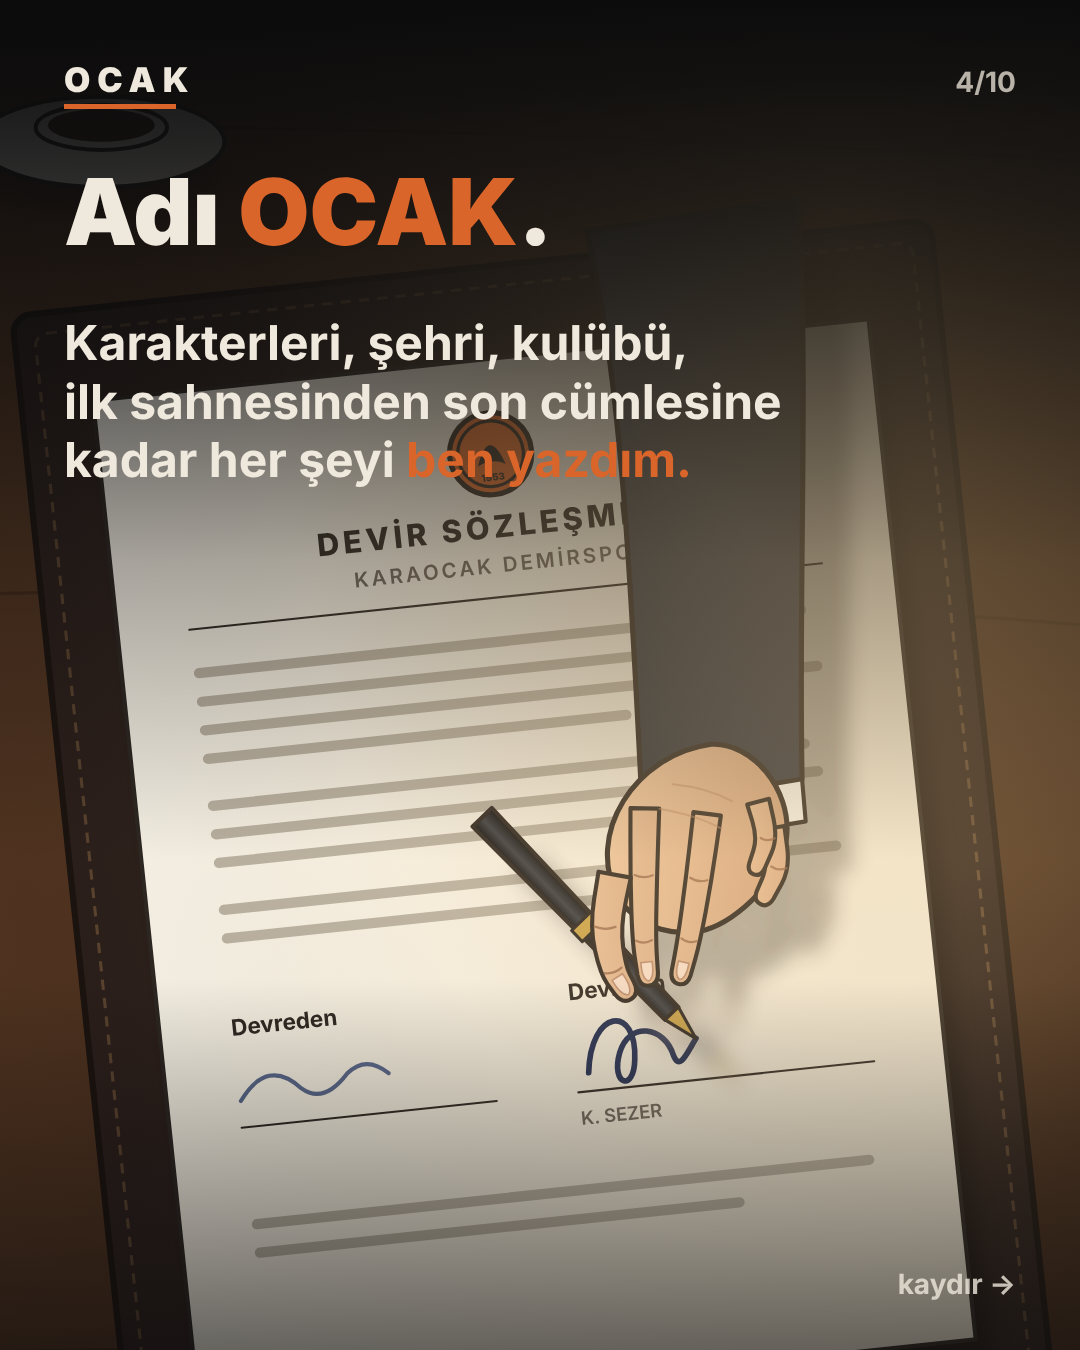
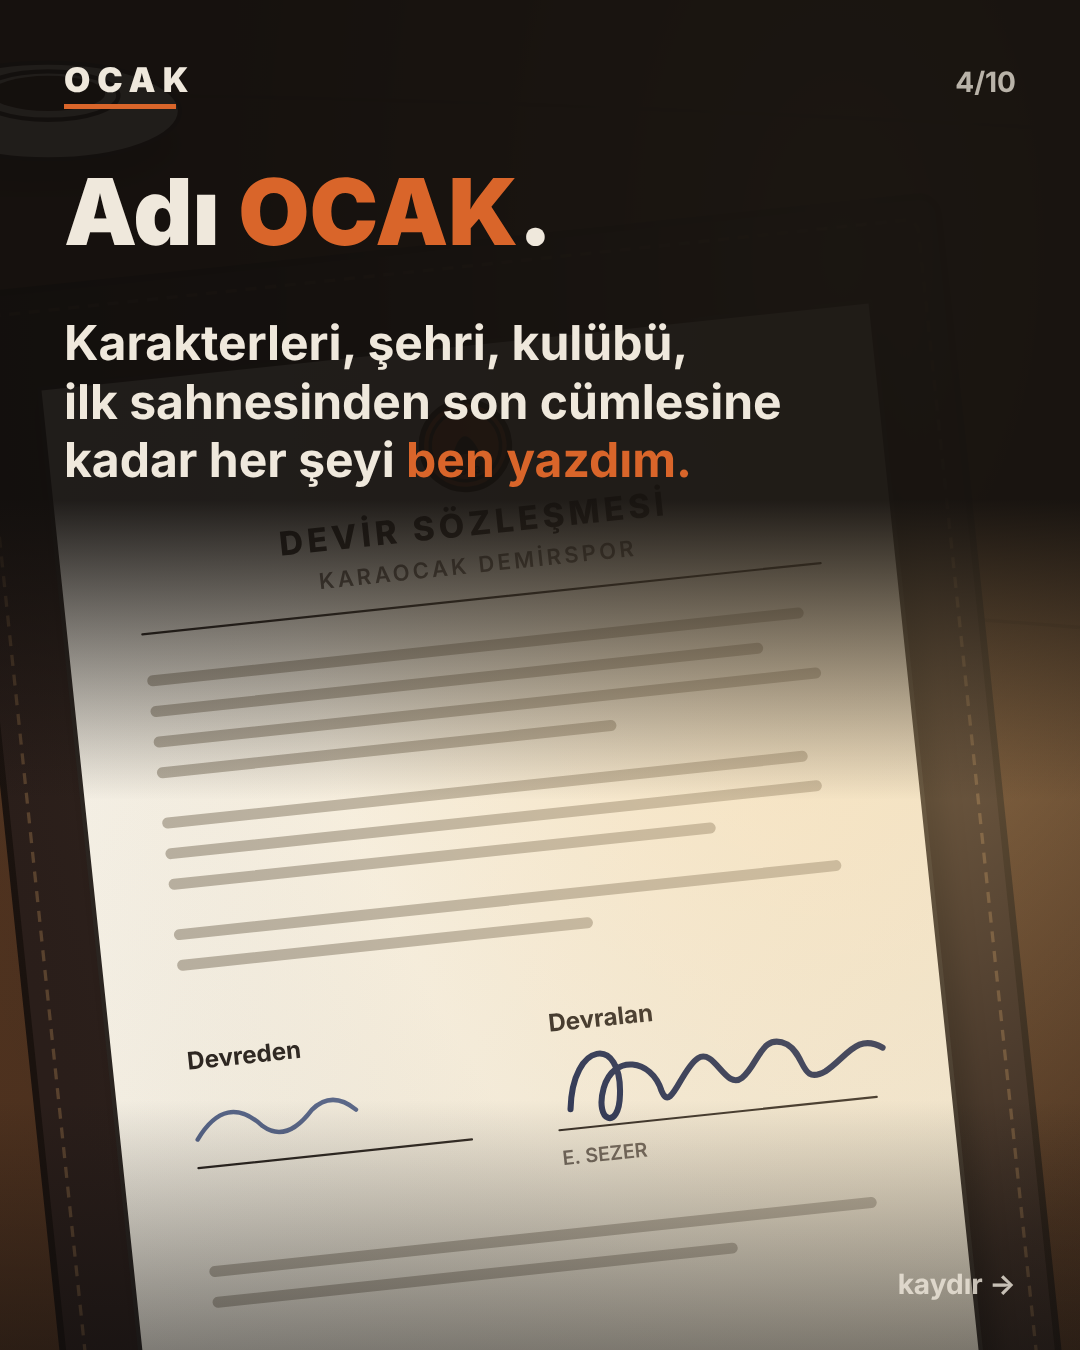
OCAK: Kerem -> Erkan, Parasite Series ortak marka, kaydırmalı post son hâli
Claude-Session: https://claude.ai/code/session_01KAcrh4E6bmA4HsYuDVf7xc

diff --git a/gorseller/pr-carousel/carousel.js b/gorseller/pr-carousel/carousel.js
@@ -20,13 +20,14 @@ function chrome(n, dark = true) {
   if (n < NS) s += `<text x="${CW - 64}" y="${CH - 56}" text-anchor="end" font-weight="700" font-size="28" fill="${c}" opacity=".8">kaydır →</text>`;
   return s + `</g>`;
 }
+const LOGO = (x, y, w) => { const h = w * 898 / 945; return `<rect x="${x}" y="${y}" width="${w}" height="${h}" rx="${w * .1}" fill="#fbfaf7"/><image href="parasite-logo.png" x="${x + w * .04}" y="${y + h * .04}" width="${w * .92}" height="${h * .92}"/>`; };
 function grain() { return `<rect width="${CW}" height="${CH}" fill="url(#vig)" opacity=".35"/>`; }
 
 const SLIDES = [
   // 1 — kapak
   () => bg(shot8(4.5, 3.1), '0 520 1080 1350') + shade(0, 780, .97) + shade(CH, 1050, .7) +
     T(64, 250, ['Bu hikâyeyi', `${hi('yıllar önce')}`, 'yazdım.'], { fs: 104, fw: 900 }) +
-    T(64, 590, ['Kimse yayınlamadı.', 'Şimdi ben yayınlıyorum.'], { fs: 44, fw: 600 }) + chrome(1),
+    T(64, 590, ['Kimse yayınlamadı.', 'Şimdi ben yayınlıyorum.'], { fs: 44, fw: 600 }) + shade(CH, 1080, .8) + LOGO(64, 1150, 130) + T(214, 1218, ['Parasite Series'], { fs: 30, fw: 800 }) + T(214, 1258, ['iş birliğiyle'], { fs: 26, fw: 500, fill: '#d6cfc3' }) + chrome(1),
   // 2 — şehir
   () => bg(shot5a(1.9, 44), '0 380 1080 1350') + shade(0, 700, .96) +
     T(64, 250, ['Gri bir sanayi şehri.'], { fs: 66 }) + T(64, 350, ['Batmak üzere olan', `bir ${hi('futbol kulübü')}.`], { fs: 66 }) + chrome(2),
@@ -38,7 +39,7 @@ const SLIDES = [
     const VB = '240 430 600 1040';
     const P = [
       [portrait('url(#skyGrey)', yusufBodyOut() + yusufHead({ look: .05 })), VB, 'YUSUF', ['Sakatlıktan sonra', 'hayattan çekilmiş', 'eski bir futbolcu.']],
-      [portrait('#6b4e3a', keremBody() + keremHead({ smile: .7 })), VB, 'KEREM', ['Onu "sadece bir', 'kahve" için çağıran', 'çocukluk arkadaşı.']],
+      [portrait('#6b4e3a', keremBody() + keremHead({ smile: .7 })), VB, 'ERKAN', ['Onu "sadece bir', 'kahve" için çağıran', 'çocukluk arkadaşı.']],
       [portrait('#8a5a4a', emirBody() + emirHead({ smirk: 1 })), VB, 'EMİR', ['Sol ayağıyla', 'mahallede kaybolan', '15 yaşında bir çocuk.']],
     ];
     P.forEach(([inner, vb, name, cap], i) => {
@@ -49,7 +50,7 @@ const SLIDES = [
     return s + chrome(3);
   },
   // 4 — imza
-  () => bg(shot1(2.2, 2.2), '0 140 1080 1350') + shade(0, 560, .6) + shade(0, 860, .97) + shade(CH, 980, .6) +
+  () => (() => { window.NO_HAND = true; const r = bg(shot1(6.6, 6.6), '0 90 1080 1350'); window.NO_HAND = false; return r; })() + `<rect width="${CW}" height="500" fill="#120f0d" opacity=".94"/>` + `<g transform="translate(0 500)">${shade(0, 300, .94, '#120f0d')}</g>` + shade(CH, 1100, .5) +
     T(64, 245, [`Adı ${hi('OCAK')}.`], { fs: 92, fw: 900 }) +
     T(64, 360, ['Karakterleri, şehri, kulübü,', 'ilk sahnesinden son cümlesine', `kadar her şeyi ${hi('ben yazdım.')}`], { fs: 48, fw: 700 }) + chrome(4),
   // 5 — kapılar
@@ -73,7 +74,7 @@ const SLIDES = [
       `<rect x="-350" y="-120" width="700" height="350" fill="#8d877a" opacity=".22"/></g>`;
     for (let i = 0; i < 70; i++) s += `<circle cx="${220 + (i * 137) % 640}" cy="${360 + (i * 89) % 420}" r="${1 + (i % 3)}" fill="#e8e0cf" opacity=".18"/>`;
     s += T(64, 940, ['Bir noktadan sonra', `${hi('sektöre yenik düştüm.')}`, 'Hikâye bir klasörde kaldı.'], { fs: 56, fw: 800 });
-    s += T(64, 1170, ['Ama Yusuf, Kerem, Emir ve Ömer', 'kafamdan hiç çıkmadı.'], { fs: 34, fw: 500, fill: '#bdb6aa', italic: true });
+    s += T(64, 1170, ['Ama Yusuf, Erkan, Emir ve Ömer', 'kafamdan hiç çıkmadı.'], { fs: 34, fw: 500, fill: '#bdb6aa', italic: true });
     return s + chrome(6);
   },
   // 7 — şimdi
@@ -95,12 +96,14 @@ const SLIDES = [
   // 10 — final
   () => {
     let s = `<rect width="${CW}" height="${CH}" fill="#0b0b0c"/>`;
-    s += T(540, 300, ['Karaocak\'ta her şey griydi.'], { fs: 46, fw: 600, fill: '#9a978f', anchor: 'middle', italic: true });
-    s += T(540, 370, [`Cumartesileri ${hi('turuncuya')} dönerdi.`], { fs: 46, fw: 600, anchor: 'middle', italic: true });
-    s += `<g font-family="Inter" text-anchor="middle"><text x="540" y="640" font-weight="900" font-size="170" letter-spacing="20" fill="${CREAM}">OCAK</text><rect x="270" y="676" width="540" height="12" fill="${ORANGE}"/></g>${crest(540, 770, 52)}`;
-    s += `<rect x="190" y="900" width="700" height="120" rx="60" fill="${ORANGE}"/>` + T(540, 980, ['CUMARTESİ BAŞLIYOR'], { fs: 50, fw: 900, fill: '#fff', anchor: 'middle', ls: 2 });
-    s += T(540, 1110, ['İlk bölüm profildeki linkte.'], { fs: 34, fw: 600, anchor: 'middle', fill: '#d6cfc3' });
-    s += T(540, 1170, ['İzle · Paylaş · Yaz'], { fs: 30, fw: 700, anchor: 'middle', fill: ORANGE, ls: 3 });
+    s += T(540, 230, ['Karaocak\'ta her şey griydi.'], { fs: 44, fw: 600, fill: '#9a978f', anchor: 'middle', italic: true });
+    s += T(540, 294, [`Cumartesileri ${hi('turuncuya')} dönerdi.`], { fs: 44, fw: 600, anchor: 'middle', italic: true });
+    s += `<g font-family="Inter" text-anchor="middle"><text x="540" y="520" font-weight="900" font-size="160" letter-spacing="20" fill="${CREAM}">OCAK</text><rect x="280" y="554" width="520" height="12" fill="${ORANGE}"/></g>${crest(540, 642, 48)}`;
+    s += `<rect x="190" y="740" width="700" height="116" rx="58" fill="${ORANGE}"/>` + T(540, 817, ['CUMARTESİ BAŞLIYOR'], { fs: 50, fw: 900, fill: '#fff', anchor: 'middle', ls: 2 });
+    s += T(540, 930, ['İlk bölüm profildeki linkte.'], { fs: 34, fw: 600, anchor: 'middle', fill: '#d6cfc3' });
+    s += T(540, 985, ['İzle · Paylaş · Yaz'], { fs: 30, fw: 700, anchor: 'middle', fill: ORANGE, ls: 3 });
+    s += `<rect x="340" y="1040" width="400" height="2" fill="#3a3a3d"/>` + T(540, 1090, ['PARASITE SERIES İŞ BİRLİĞİYLE'], { fs: 22, fw: 700, anchor: 'middle', fill: '#9a978f', ls: 4 });
+    s += LOGO(450, 1116, 180);
     return s + chrome(10);
   },
 ];

diff --git a/gorseller/bolum1/shots.js b/gorseller/bolum1/shots.js
@@ -155,10 +155,12 @@ function shot1(u) { // 0..6.6
   s += `<text x="230" y="1150" font-family="Inter" font-weight="700" font-size="22" fill="${INK}">Devreden</text><text x="560" y="1150" font-family="Inter" font-weight="700" font-size="22" fill="${INK}">Devralan</text>`;
   s += `<path d="M232 1214 q30 -40 60 -6 q20 18 46 -10 q20 -16 40 4" stroke="#3a4c7a" stroke-width="4" fill="none" stroke-linecap="round" opacity=".85"/>`;
   s += `<line x1="230" y1="1240" x2="480" y2="1240" ${LN(2)}/><line x1="560" y1="1240" x2="850" y2="1240" ${LN(2)}/>`;
-  s += `<text x="560" y="1272" font-family="Inter" font-weight="600" font-size="18" fill="#6b625a">K. SEZER</text>`;
+  s += `<text x="560" y="1272" font-family="Inter" font-weight="600" font-size="18" fill="#6b625a">E. SEZER</text>`;
   s += `<path d="${SIG.d}" stroke="#1d2a52" stroke-width="5.5" fill="none" stroke-linecap="round" stroke-linejoin="round" stroke-dasharray="${SIG.L}" stroke-dashoffset="${SIG.L * (1 - p)}"/>`;
+  if (!window.NO_HAND) {
   s += `<g transform="translate(${hx + 40 + 60 * lift} ${hy + 50 + 90 * lift}) scale(${sc}) rotate(-38)" opacity="${.3 - .12 * lift}" filter="url(#blur)">${hPenV2('#000', '#000', '#000')}</g>`;
   s += `<g transform="translate(${hx + jit} ${hy}) scale(${sc}) rotate(-38)">${hPenV2(SKIN_K, 'url(#suit)')}</g>`;
+  }
   s += `</g></g>`;
   s += `<rect width="1080" height="1920" fill="url(#lamp)"/>`;
   return s;

diff --git a/OCAK-paylasim-metinleri-bolum-01.md b/OCAK-paylasim-metinleri-bolum-01.md
@@ -20,7 +20,7 @@ Yarın: Sol Kroşe
 
 **Ekran üstü yazı (ilk 2 sn):** `Kahveye çağırdı. Bir daha hiç ayrılamadı.`
 
-**Sabit yorum:** `Kerem neden bu kulübü aldı sizce? 👇 Her gün yeni bölüm.`
+**Sabit yorum:** `Erkan neden bu kulübü aldı sizce? 👇 Her gün yeni bölüm.`
 
 ---
 
@@ -37,7 +37,7 @@ Bir Kahve | OCAK – Bölüm 1 #Shorts
 ```
 Karaocak'ta her şey griydi. Cumartesileri turuncuya dönerdi… Eskiden.
 
-Sakatlıktan sonra hayattan çekilen eski futbolcu Yusuf Demirci'yi, çocukluk arkadaşı Kerem Sezer yeni aldığı kulübe "sadece bir kahve" için çağırır.
+Sakatlıktan sonra hayattan çekilen eski futbolcu Yusuf Demirci'yi, çocukluk arkadaşı Erkan Sezer yeni aldığı kulübe "sadece bir kahve" için çağırır.
 
 OCAK, küçük bir sanayi şehrinin batık kulübünü anlatan animasyon futbol dizisi. Her gün yeni bölüm, hafta sonu iki bölüm.
 
@@ -79,7 +79,7 @@ Takip et, Karaocak Demirspor'un hikâyesi her gün devam ediyor. 🟧⬛
 ```
 Karaocak'ta her şey griydi. Cumartesileri turuncuya dönerdi… Eskiden.
 
-Bir zamanlar sahaların sol ayağı olan Yusuf Demirci, sakatlıktan sonra kendini dünyaya kapattı. Bir gün çocukluk arkadaşı Kerem arar: "Bir kahveme gel. Sadece bir kahve."
+Bir zamanlar sahaların sol ayağı olan Yusuf Demirci, sakatlıktan sonra kendini dünyaya kapattı. Bir gün çocukluk arkadaşı Erkan arar: "Bir kahveme gel. Sadece bir kahve."
 
 OCAK · Bölüm 1: Bir Kahve
 Yarın: Sol Kroşe

diff --git a/OCAK-PR-tanitim-metinleri.md b/OCAK-PR-tanitim-metinleri.md
@@ -15,7 +15,7 @@ Adı **OCAK.** Karakterleri, şehri, kulübü, ilk sahnesinden son cümlesine ka
 
 Yıllarca bu dizinin bir gün ekranda olacağına inandım. Dosyalar hazırladım, kapılar çaldım, toplantılara girdim. Bazıları ilgilendi, çoğu cevap bile vermedi. "Güzel ama riskli." "Futbol dizisi tutmaz." "Tanınan bir isim lazım." Bir noktadan sonra sektöre yenik düştüm. Hikâye bir klasörde kaldı.
 
-Ama Yusuf, Kerem, Emir ve Ömer kafamdan hiç çıkmadı.
+Ama Yusuf, Erkan, Emir ve Ömer kafamdan hiç çıkmadı.
 
 Bugün bu diziyi, kendi imkânlarımla, yapay zekâ araçlarını kullanarak yayınlamaya başlıyorum. Bu benim için bir tercih değil, bir mecburiyet. Bir yapım şirketim, bütçem, ekibim yok. Elimde sadece yazdığım hikâye ve onu anlatma inadı var.
 
@@ -201,7 +201,7 @@ Fırça değişti. Hikâye aynı.
 Karaocak'ta her şey griydi. Cumartesileri turuncuya dönerdi… Eskiden.
 
 Yusuf Demirci bir zamanlar bu şehrin sol ayağıydı. Dizi sakatlandı, hayattan çekildi.
-Bir gün çocukluk arkadaşı Kerem arar: "Bir kahveme gel. Sadece bir kahve."
+Bir gün çocukluk arkadaşı Erkan arar: "Bir kahveme gel. Sadece bir kahve."
 
 Bu diziyi yıllar önce yazdım, kimseye satamadım.
 Şimdi kendim anlatıyorum: her gün bir bölüm.

diff --git a/HIKAYE-futbol-dizisi-bible.md b/HIKAYE-futbol-dizisi-bible.md
@@ -32,6 +32,11 @@
 - Kadroda 25 yaş üstü en fazla **5 oyuncu** olabiliyor. Lig zorunlu olarak gençlerle oynuyor. [GENÇ]'in 15-16 yaşında takımda olması bu yüzden çok gerçekçi.
 - Maaşı ödenmeyen 3. Lig futbolcularının bakanlık önünde açıklama yaptığı haberler var. Yani kulübün maddi sıkıntısı gerçek hayattan bir zemin.
 
+## 0m. İsim değişikliği ve ortak yapım (kullanıcı)
+
+- **Kerem Sezer'in adı artık Erkan Sezer.** Eski dokümanlarda geçen "Kerem" Erkan'dır. Yusuf'un ona taktığı lakap "Kero" da değişmeli (öneri: "Erko"). Bölüm 1'in sesinde "Kerem Sezer" ve "Kero" geçen iki replik yeniden çekilmeli.
+- **Ortak yapım: Parasite Series.** Paylaşımlarda "Parasite Series iş birliğiyle" ibaresi ve Parasite Series logosu kullanılır.
+
 ## 0l. Sesler (kullanıcı)
 
 Kesin ses kadrosu (ElevenLabs, model `eleven_v4`):
